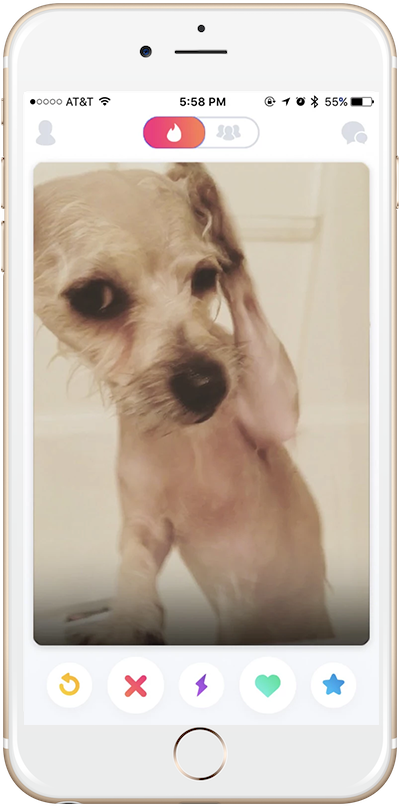
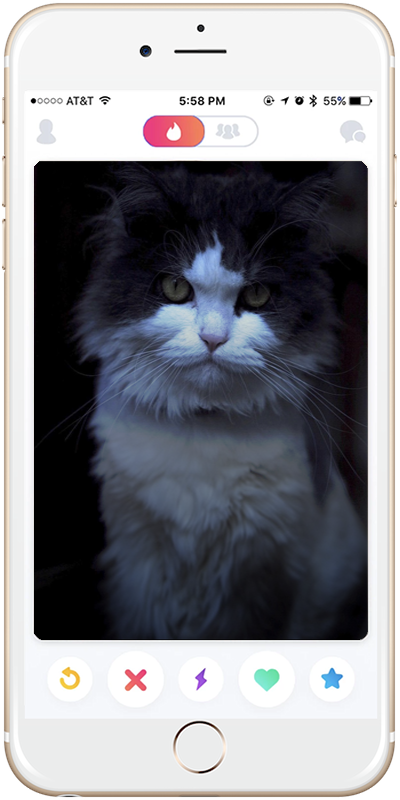
other

diff --git a/index.html b/index.html
@@ -4,50 +4,64 @@
 <head>
   <meta charset="utf-8">
     <meta name="viewport" content="width=device-width, initial-scale=1">
-  <title>TinDog</title>
+  <title>TinCat</title>
+
+  <!--fonts-->
+  <link rel="preconnect" href="https://fonts.googleapis.com">
+<link rel="preconnect" href="https://fonts.gstatic.com" crossorigin>
+<link href="https://fonts.googleapis.com/css2?family=Montserrat:wght@900&family=Ubuntu:wght@300&display=swap" rel="stylesheet">
+
+
+  <!--CSS-->
   <link href="https://cdn.jsdelivr.net/npm/bootstrap@5.3.0-alpha1/dist/css/bootstrap.min.css" rel="stylesheet" integrity="sha384-GLhlTQ8iRABdZLl6O3oVMWSktQOp6b7In1Zl3/Jr59b6EGGoI1aFkw7cmDA6j6gD" crossorigin="anonymous">
   <link rel="stylesheet" href="css/styles.css">
+  
+  <!--Javascript-->
   <script src="https://cdn.jsdelivr.net/npm/bootstrap@5.3.0-alpha1/dist/js/bootstrap.bundle.min.js" integrity="sha384-w76AqPfDkMBDXo30jS1Sgez6pr3x5MlQ1ZAGC+nuZB+EYdgRZgiwxhTBTkF7CXvN" crossorigin="anonymous"></script>
+
+
 </head>
 
 <body>
 
   <section id="title">
 
-    <!-- Nav Bar -->
+    <div class="container-fluid">
+          <!-- Nav Bar -->
 
-    
-    <nav class="navbar navbar-expand-lg navbar-dark bg-dark">
-        <a class="navbar-brand">LlorcaWeb</a>
-        <!-- Boton responsive -->
-        <button class="navbar-toggler" type="button" data-bs-toggle="collapse" data-bs-target="#navbarTogglerDemo01" aria-controls="navbarTogglerDemo01" aria-expanded="false" aria-label="Toggle navigation">
-          <span class="navbar-toggler-icon"></span>
-        </button>
-        <!--Fin-->
+          
+          <nav class="navbar navbar-expand-lg navbar-dark">
+              <a class="navbar-brand">TinCat</a>
+              <!-- Boton responsive -->
+              <button class="navbar-toggler" type="button" data-bs-toggle="collapse" data-bs-target="#navbarTogglerDemo01" aria-controls="navbarTogglerDemo01" aria-expanded="false" aria-label="Toggle navigation">
+                <span class="navbar-toggler-icon"></span>
+              </button>
+              <!--Fin-->
 
-        <div class="collapse navbar-collapse" id="navbarTogglerDemo01">
-                
-                <ul class="navbar-nav ms-auto">
-                    <li class="nav-item"><a class="nav-link" href="">Home</a></li>
-                    <li class="nav-item"><a class="nav-link" href="">Tecnologies</a></li>
-                    <li class="nav-item"><a class="nav-link" href="">Projects</a></li>
-                    <li class="nav-item"><a class="nav-link" href="">Contact</a></li>
-                </ul>
-        </div>
-    </nav>
+              <div class="collapse navbar-collapse" id="navbarTogglerDemo01">
+                      
+                      <ul class="navbar-nav ms-auto">
+                          <li class="nav-item"><a class="nav-link" href="">Home</a></li>
+                          <li class="nav-item"><a class="nav-link" href="">Tecnologies</a></li>
+                          <li class="nav-item"><a class="nav-link" href="">Projects</a></li>
+                          <li class="nav-item"><a class="nav-link" href="">Contact</a></li>
+                      </ul>
+              </div>
+          </nav>
 
 
-    <!-- Title -->
-
-    <div>
-      <h1>Meet new and interesting dogs nearby.</h1>
-      <button type="button">Download</button>
-      <button type="button">Download</button>
+          <!-- Title -->
+          <div class="row">
+            <div class="col-xxl-6 col-lg-6">
+              <h1>Meet new and interesting dogs nearby.</h1>
+              <button type="button">Download</button>
+              <button type="button">Download</button>
+            </div>
+            <div class="col-xxl-6 col-lg-6">
+              <img src="images/iphone6.png" alt="iphone-mockup">
+            </div>
+          </div>
     </div>
-    <div>
-      <img src="images/iphone6.png" alt="iphone-mockup">
-    </div>
-
   </section>
 
 

diff --git a/css/styles.css b/css/styles.css
@@ -1,0 +1,14 @@
+#title{
+    background-color: #ff4c68;
+}
+
+h1{
+    font-family: 'Montserrat', sans-serif;
+    size: 3rem;
+    line-height: 1.5;
+    
+}
+
+.container-fluid{
+    padding: 3% 15%;
+}
